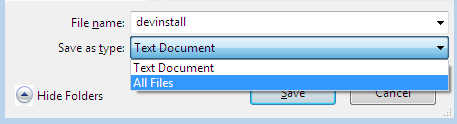
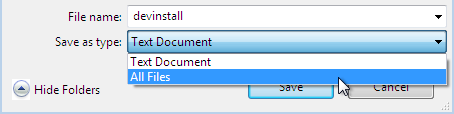
reviewed windows installation instructions

Changed region(s): [[0.0, 0.0, 1.0, 1.0]]

diff --git a/doc/installing.rst b/doc/installing.rst
@@ -201,14 +201,9 @@ and the python database connectors. With this environment correctly set up,
 the Ghini installation procedure runs as on GNU/Linux. The concluding steps are
 again Windows specific.
 
-.. note:: Ghini has been tested with and is known to work on W-XP, W-7 and
-   W-8. Although it should work fine on other versions Windows it has not
+.. note:: Ghini has been tested with and is known to work on W-XP, W-7 up to
+   W-10. Although it should work fine on other versions Windows it has not
    been thoroughly tested.
-
-.. note:: Direct download links are given for all needed components. They
-          have been tested in September 2015, but things change with
-          time. If any of the direct download links stops working, please
-          ring the bell, so we can update the information here.
 
 .. _Direct link to download git: https://github.com/git-for-windows/git/releases/download/v2.10.0.windows.1/Git-2.10.0-32-bit.exe
 .. _Direct link to download Python: https://www.python.org/ftp/python/2.7.12/python-2.7.12.msi
@@ -219,84 +214,69 @@ again Windows specific.
 The installation steps on Windows:
 
 #. download and install ``git`` (comes with a unix-like ``sh`` and includes
-   ``vi``) from:
-
-     https://git-scm.com/download/win
-
-   `Direct link to git`_
+   ``vi``). Grab it from `the Git download area <https://git-scm.com/download/win>`_.
 
    all default options are fine, except we need git to be executable from
    the command prompt:
 
    .. image:: images/screenshots/git3.png
 
-#. download and install Python 2.x (32bit) from:
+#. download and install Python 2.x (32bit). Grab it from the `Python
+   official site <http://www.python.org>`_.
 
-     http://www.python.org
-
-   `Direct link to download Python`_
-
-   Ghini has been developed and tested using Python 2.x.  It will
-   definitely **not** run on Python 3.x.  If you are interested in helping
-   port to Python 3.x, please contact the Ghini maintainers.
-
-   when installing Python, do put Python in the PATH:
+   When installing Python, do put Python in the PATH:
 
    .. image:: images/screenshots/python3.png
 
-#. download ``pygtk`` from the following source. (this requires 32bit
-   python). be sure you download the "all in one" version:
+#. download ``pygtk`` from `the official source
+   <http://ftp.gnome.org/pub/GNOME/binaries/win32/pygtk/>`_. (this requires
+   32bit python). be sure you download the "all in one" version.
 
-     http://ftp.gnome.org/pub/GNOME/binaries/win32/pygtk/
-
-   `Direct link to download PyGTK`_
-
-   make a complete install, selecting everything:
+   Make a complete install, selecting everything:
 
    .. image:: images/screenshots/pygtk1.png
 
-#. (Possibly necessary, maybe superfluous) install lxml, you can grab this from:
-
-    https://pypi.python.org/pypi/lxml/3.4.4
+#. (Possibly necessary, maybe superfluous) install lxml, you can grab this
+   from `the pypi archives <https://pypi.python.org/pypi/lxml/3.4.4>`_
 
    Remember you need the 32 bit version, for Python 2.7.
 
-   `Direct link to download lxml`_
+   .. note
+      On some systems, lxml was necessary to avoid the following error::
 
-   On some systems, lxml was necessary to avoid the following error::
+        Building without Cython.
+        ERROR: 'xslt-config' is not recognized as an internal or external command,
+        operable program or batch file.
 
-    Building without Cython.
-    ERROR: 'xslt-config' is not recognized as an internal or external command,
-    operable program or batch file.
+      If you skip this step and can confirm you get the error, please inform us.
 
-   If you skip this step and can confirm you get the error, please inform us.
-
-#. (optional) download and install a database connector other than
+#. (definitely optional) download and install a database connector other than
    ``sqlite3``.
 
-   On Windows, it is NOT easy to install ``psycopg2`` from sources, using
-   pip, so "avoid the gory details" and use a pre-compiled pagkage from:
-
-   http://initd.org/psycopg/docs/install.html
-
-   `Direct link to download psycopg2`_
+   If you plan using PostgreSQL, the best Windows binary library for Python is
+   `psycopg and is Made in Italy <http://initd.org/psycopg/docs/install.html>`_.
+   
 
 #. **REBOOT**
 
    hey, this is Windows, you need to reboot for changes to take effect!
 
-#. download (right click, save as) and run (from |windows-cmd|) the batch file:
+#. We're done with the dependecies, now we can download and run the batch file:
 
-   https://raw.githubusercontent.com/Ghini/ghini.desktop/master/scripts/devinstall.bat
-   
+   `devinstall.bat <https://raw.githubusercontent.com/Ghini/ghini.desktop/ghini-1.0-dev/scripts/devinstall.bat>`_
+
+   Please don't just follow the above link.  Instead: right click, save link as...
+
    .. image:: images/windows-save_link_as.png
+
+   Also make sure you don't let Windows convert the script to a text document.
 
    .. image:: images/windows-save_as_type.png
 
    .. |windows-cmd| image:: images/windows-cmd.png
 
-   right before you hit the enter key to run the script, your screen might
-   look like something like this:
+   Now start |windows-cmd| to run the script.  Right before you hit the enter
+   key to run the script, your screen might look like something like this:
 
    .. image:: images/screenshots/sys32cmd-1.png
 
